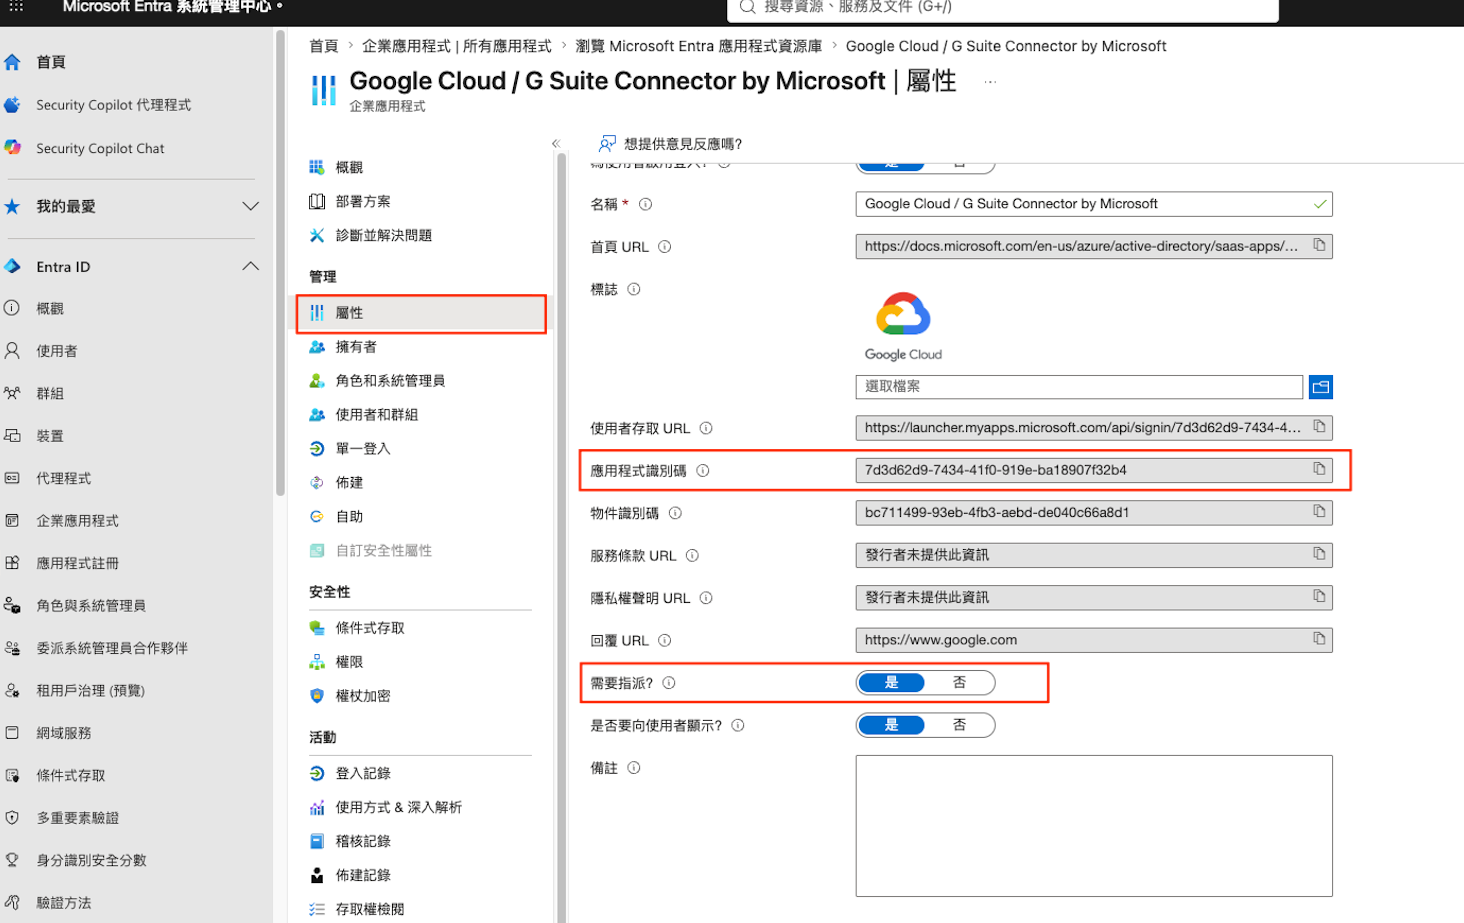
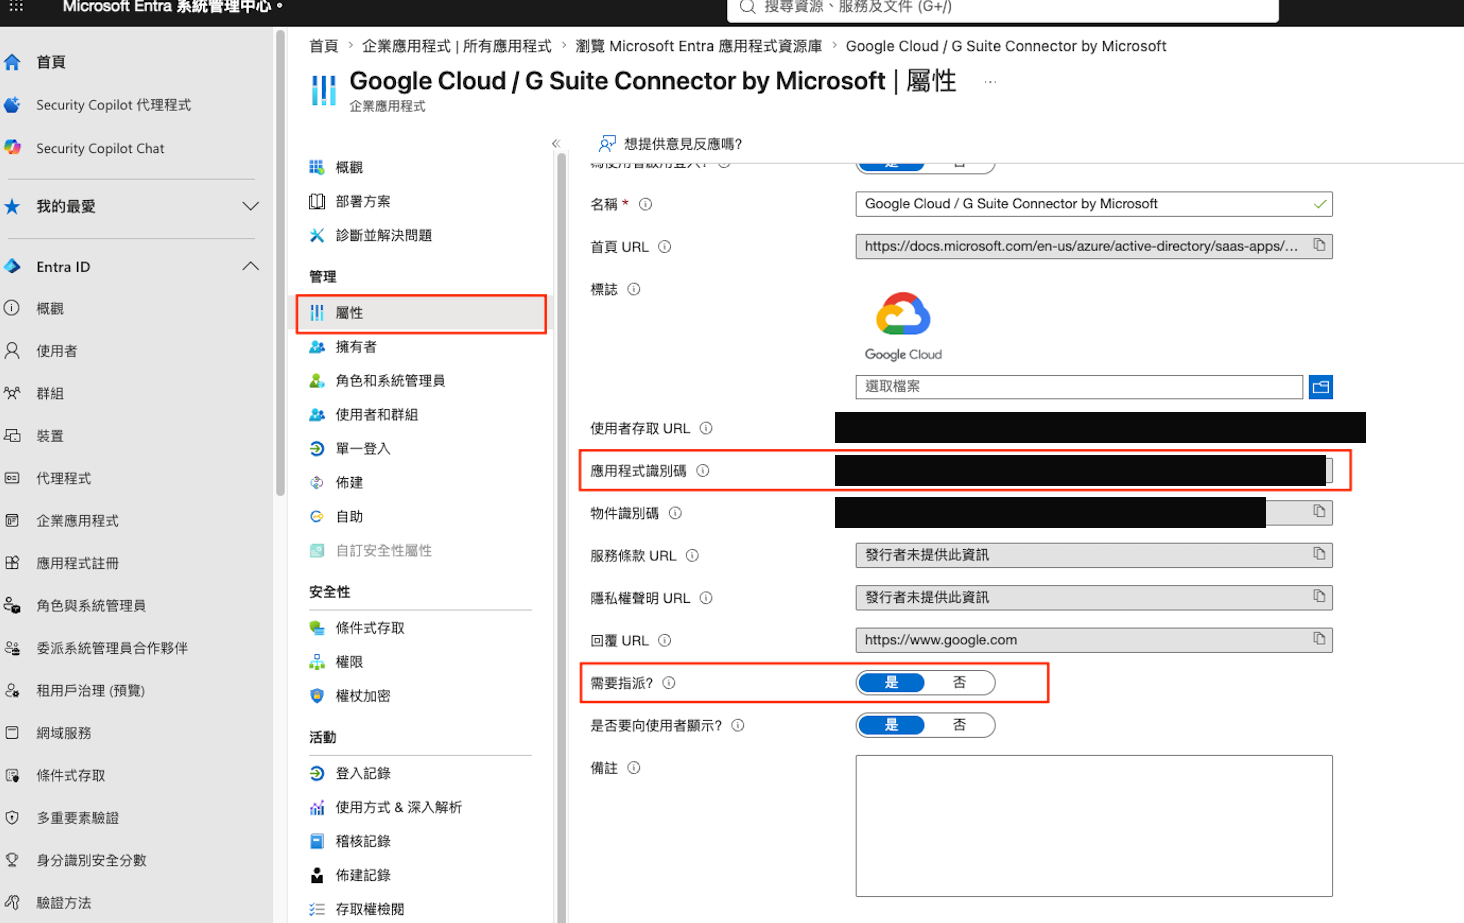
遮蔽截圖與文字中的真實識別資訊，為公開 repo 做準備
README 系統架構參數表中的真實 GCP 組織 ID、Entra 租戶 ID、應用程式 ID、
群組 ID 已換成明顯的範例佔位值。截圖中應用程式識別碼、物件識別碼、
租戶 ID、用戶端密鑰指紋等欄位補強馬賽克（原始來源圖片的馬賽克範圍
不夠寬，邊緣有露出部分文字）。

Changed region(s): [[0.5533, 0.4247, 0.9529, 0.5764]]

diff --git a/README.md b/README.md
@@ -111,7 +111,7 @@ sequenceDiagram
 
 ### Google Cloud 端
 
-- 一個 GCP **組織（Organization）**，並取得 **GCP Organization ID**（純數字，例如本文件範例中的 `705380188382`）。
+- 一個 GCP **組織（Organization）**，並取得 **GCP Organization ID**（純數字，例如本文件範例中的 `123456789012`）。
 - 一個具備組織層級 **IAM Workforce Pool Admin（`roles/iam.workforcePoolAdmin`）** 角色的帳號 —— 這是 Google 官方文件明確要求的權限，若沒有這個角色，執行 Phase 2 的 `gcloud iam workforce-pools` 指令會直接失敗。
 - 已安裝並登入 [Google Cloud CLI](https://cloud.google.com/sdk/docs/install)（`gcloud init` 完成初始化）。
 - 一個用來測試的 GCP 專案（測試專案 ID），並確認已啟用計費（Billing）。
@@ -126,13 +126,13 @@ sequenceDiagram
 
 | 參數項目 | 範例值（本次部署實際值） | 說明 |
 |---|---|---|
-| GCP 組織 ID | `705380188382` | GCP Organization ID |
+| GCP 組織 ID | `123456789012` | GCP Organization ID |
 | GCP 測試專案 ID | *你的 GCP 測試專案 ID* | 啟用 Gemini API 與指派 IAM 的專案 |
 | GCP WIF 集區 ID（Workforce Pool ID） | `ge-entraid-pool` | 建議全公司統一用小寫英文+連字號，之後不可再重複使用相同名稱（詳見〔疑難排解 錯誤 2〕） |
 | GCP WIF 提供者 ID（Workforce Provider ID） | `entra-id-provider` | 同上，命名越清楚，未來維護越輕鬆 |
-| Entra ID 租戶 ID（Tenant ID） | `545e3a6c-943f-41f0-805d-c204df049f94` | Microsoft Tenant ID，在 Entra 管理中心「概觀」頁可查到 |
-| Entra ID 應用程式 ID（App / Client ID） | `67598759-8f0d-477d-b256-04473b4c6f23` | 在應用程式「屬性」頁複製 |
-| Entra ID 群組 ID（Group Object ID） | `f20f1a8c-1578-48f1-9aac-9d26bd0cd2c1` | 允許使用 Gemini Enterprise 的員工群組，其「物件識別碼」 |
+| Entra ID 租戶 ID（Tenant ID） | `00000000-0000-0000-0000-000000000000` | Microsoft Tenant ID，在 Entra 管理中心「概觀」頁可查到 |
+| Entra ID 應用程式 ID（App / Client ID） | `11111111-1111-1111-1111-111111111111` | 在應用程式「屬性」頁複製 |
+| Entra ID 群組 ID（Group Object ID） | `22222222-2222-2222-2222-222222222222` | 允許使用 Gemini Enterprise 的員工群組，其「物件識別碼」 |
 
 > ⚠ **以上為範例表**：表中數值僅為範例，請依照**你自己的命名與環境**填入，不要照抄範例值。
 
@@ -329,13 +329,13 @@ gcloud services enable \
 
 ```bash
 gcloud projects add-iam-policy-binding 你的GCP測試專案ID \
-  --member="principalSet://iam.googleapis.com/locations/global/workforcePools/ge-entraid-pool/group/f20f1a8c-1578-48f1-9aac-9d26bd0cd2c1" \
+  --member="principalSet://iam.googleapis.com/locations/global/workforcePools/ge-entraid-pool/group/22222222-2222-2222-2222-222222222222" \
   --role="roles/discoveryengine.agentspaceUser"
 ```
 
 > `roles/discoveryengine.agentspaceUser` 是 Google 官方文件定義的「**Gemini Enterprise 使用者**」角色，用來讓使用者「存取、管理與分享」Gemini Enterprise 應用程式，已對照 [Google 官方 IAM 角色文件](https://docs.cloud.google.com/gemini/enterprise/docs/iam-policy-for-apps) 確認為正確角色名稱。
 >
-> `--member` 裡的 `group/f20f1a8c-...` 要換成〔系統架構參數表〕裡「Entra ID 群組 ID」——這代表「這整個 Microsoft 群組的所有成員」都自動取得這個角色，之後只要在 Microsoft 那邊調整群組成員，GCP 這邊的權限就會自動跟著變動，**不需要每次都重新下指令**。
+> `--member` 裡的 `group/22222222-...` 要換成〔系統架構參數表〕裡「Entra ID 群組 ID」——這代表「這整個 Microsoft 群組的所有成員」都自動取得這個角色，之後只要在 Microsoft 那邊調整群組成員，GCP 這邊的權限就會自動跟著變動，**不需要每次都重新下指令**。
 
 ### 步驟 3：Gemini Enterprise 設定 WIF 驗證
 
